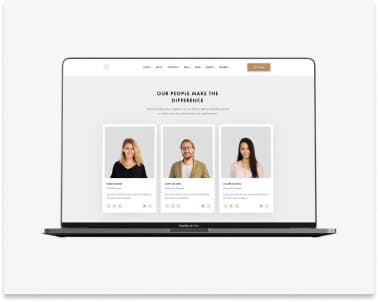
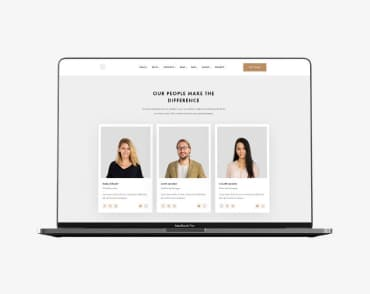
updated hw

diff --git a/portfolio.html b/portfolio.html
@@ -15,7 +15,7 @@
         <!--header-->
         <header class="page-header">
             <nav class="header-nav">
-                <a class="logo" href="./index.html">WebStudio</a>
+                <a class="logo link" href="./index.html"><span class="logo-web">Web</span><span class="logo-studio">Studio</span></a>
                 <ul class="menu list">
                     <li class="menu-item">
                         <a class="menu-link link" href="link">Студія</a>
@@ -37,7 +37,7 @@
         </header>
         <!--Main-->
         <main>
-            <section>
+            <section class="section">
                     <!--Filters-->
                     <ul class="menu list button">
                     <li class="menu-item"><button type="button" class="headup_hover">Усі</button></li>
@@ -48,22 +48,21 @@
                 </ul>
             <!--Projects-->
             <ul class="menu list">
-                <li class="menu-item"><img src="./images/project-1.jpg" alt="project1" width="370"><h1>Технокряк</h1><p>Веб-сайт</p></li>
-                <li class="menu-item"><img src="./images/project-2.jpg" alt="Project2" width="370"><h1>Постер New Orlean vs Golden Star</h1><p>Дизайн</p></li>
-                <li class="menu-item"><img src="./images/project-3.jpg" alt="Project3" width="370"><h1>Ресторан Seafood</h1><p>Додаток</p></li>
-                <li class="menu-item"><img src="./images/project-4.jpg" alt="Project4" width="370"><h1>Проєкт Prime</h1><p>Маркетинг</p></li>
-                <li class="menu-item"><img src="./images/project-5.jpg" alt="Project5" width="370"><h1>Проєкт Boxes</h1>Додаток<p></p></li>
-                <li class="menu-item"><img src="./images/project-6.jpg" alt="Project6" width="370"><h1>Inspiration has no Borders</h1><p>Веб-сайт</p></li>
-                <li class="menu-item"><img src="./images/project-7.jpg" alt="Project7" width="370"><h1>Видання Limited Edition</h1><p>Дизайн</p></li>
-                <li class="menu-item"><img src="./images/project-8.jpg" alt="Project8" width="370"><h1>Проєкт LAB</h1><p>Маркетинг</p></li>
-                <li class="menu-item"><img src="./images/project-9.jpg" alt="Project9" width="370"><h1>Growing Business</h1><p>Додаток</p></li>
+                <li class="menu-item"><img src="./images/project-1.jpg" alt="project1" width="370"><h2>Технокряк</h1><p>Веб-сайт</p></li>
+                <li class="menu-item"><img src="./images/project-2.jpg" alt="Project2" width="370"><h2>Постер New Orlean vs Golden Star</h1><p>Дизайн</p></li>
+                <li class="menu-item"><img src="./images/project-3.jpg" alt="Project3" width="370"><h2>Ресторан Seafood</h1><p>Додаток</p></li>
+                <li class="menu-item"><img src="./images/project-4.jpg" alt="Project4" width="370"><h2>Проєкт Prime</h1><p>Маркетинг</p></li>
+                <li class="menu-item"><img src="./images/project-5.jpg" alt="Project5" width="370"><h2>Проєкт Boxes</h1>Додаток<p></p></li>
+                <li class="menu-item"><img src="./images/project-6.jpg" alt="Project6" width="370"><h2>Inspiration has no Borders</h1><p>Веб-сайт</p></li>
+                <li class="menu-item"><img src="./images/project-7.jpg" alt="Project7" width="370"><h2>Проєкт LAB</h1><p>Маркетинг</p></li>
+                <li class="menu-item"><img src="./images/project-9.jpg" alt="Project9" width="370"><h2>Growing Business</h1><p>Додаток</p></li>
             </ul>
             </section>
         </main>
         <!--footer-->
-        <footer>
+        <footer class="page-footer">
             <!--адресса-->
-            <a href="./index.html">WebStudio</a>
+            <a class="link" href="./index.html"><span class="logo-web">Web</span><span class="logo-studio-footer">Studio</span></a>
             <address>
                 <ul class="menu list">
                     <li class="menu-item"><a class="contact-nav menu-link link"
@@ -72,7 +71,7 @@
                     <li class="menu-item"><a class="contact-mail menu-link link"
                             href="mailto:info@example.com">info@example.com</a></li>
                     <li class="menu-item"><a class="contact-number menu-link link" href="tel:+380991111111">+38 099 111 11
-                            11</a></li>
+                    11</a></li>
                 </ul>
             </address>
         </footer>

diff --git a/index.html b/index.html
@@ -15,7 +15,7 @@
     <!--header-->
     <header class="page-header">
         <nav class="header-nav">
-            <a class="logo" href="./index.html">WebStudio</a>
+            <a class="logo link" href="./index.html"><span class="logo-web">Web</span><span class="logo-studio">Studio</span></a>
         <ul class="menu list">
             <li class="menu-item">
                 <a class="menu-link link" href="link">Студія</a></li>
@@ -26,21 +26,21 @@
         </ul>
     </nav>
         <ul class="menu list">
-            <li class="menu-item"><a class="contact-mail menu-link link " href="mailto:info@devstudio.com">info@devstudio.com</a></li>
+            <li class="menu-item"><a class="contact-mail menu-link link" href="mailto:info@devstudio.com">info@devstudio.com</a></li>
             <li class="menu-item"><a class="contact-number menu-link link" href="tel+380961111111">+38 096 111 11 11</a></li>
         </ul>
     </header> 
     <!--main-->
     <main>
         <!--Замовити послугу-->
-        <section>
+        <section class="hero">
             <h1>
                 Ефективні рішення для вашого бізнесу
             </h1>
             <button class="modal-open-btn" type="button">Замовити послугу</button>
         </section>
     <!--Особливості-->
-    <section>
+    <section class="section">
         <ul class="menu list">
             <li class="menu-item">
                 <h2>УВАГА ДО ДЕТАЛЕЙ</h2>
@@ -61,7 +61,7 @@
         </ul>
     </section>
     <!--Чим ми займаймося-->
-    <section>
+    <section class="section">
         <h3>Чим ми займаймося</h3>
         <ul class="menu list">
             <li class="menu-item"> <img src="./images/box_1.png" alt="photo1" width="370"></li>
@@ -70,7 +70,7 @@
         </ul>
     </section>
     <!--Наша команда-->
-    <section>
+    <section class="section">
         <h3>Наша команда</h3>
         <ul class="menu list">
             <li class="menu-item"><img src="./images/img.jpg" alt="Ігор Дем'яненко" width="270">
@@ -94,15 +94,19 @@
     </section>
 </main>   
 <!--footer-->
-<footer>
+<footer class="page-footer">
     <!--адресса-->
-<a href="./index.html">WebStudio</a>
+<a class="link" href="./index.html"><span class="logo-web">Web</span><span class="logo-studio-footer">Studio</span></a>
 <address>
-    <ul class="menu list">
-        <li class="menu-item"><a class="contact-nav menu-link link" href="https://www.google.com/maps/dir//Lesi+Ukrainky+Blvd,+26,+Kyiv,+Ukraine,+02000/@50.4265947,30.5380962,19.89z/data=!4m9!4m8!1m0!1m5!1m1!1s0x40d4cf0e033ecbe9:0x57a4dffefec77da0!2m2!1d30.5383858!2d50.4265807!3e0">м. Київ, пр-т Лесі Українки, 26</a></li>
-        <li class="menu-item"><a class="contact-mail menu-link link " href="mailto:info@example.com">info@example.com</a></li>
+    <div class=""><ul class="menu list">
+        <li class="menu-item"><a class="contact-nav menu-link link"
+                href="https://www.google.com/maps/dir//Lesi+Ukrainky+Blvd,+26,+Kyiv,+Ukraine,+02000/@50.4265947,30.5380962,19.89z/data=!4m9!4m8!1m0!1m5!1m1!1s0x40d4cf0e033ecbe9:0x57a4dffefec77da0!2m2!1d30.5383858!2d50.4265807!3e0">м.
+                Київ, пр-т Лесі Українки, 26</a></li>
+        <li class="menu-item"><a class="contact-mail menu-link link" href="mailto:info@example.com">info@example.com</a>
+        </li>
         <li class="menu-item"><a class="contact-number menu-link link" href="tel:+380991111111">+38 099 111 11 11</a></li>
     </ul>
+</div>
 </address>
 </footer>
 </body>

diff --git a/styles/styles.css b/styles/styles.css
@@ -13,6 +13,26 @@
 .list {
     list-style: none;
 }
+.page-header {
+    background-color: #ffffff;
+}
+
+.logo-web {
+    font-family: 'Raleway';
+    
+    font-weight: 700;
+    font-size: 26px;
+    line-height: 1.19;
+color: #2196F3;
+}
+.logo-studio {
+    font-family: 'Raleway';
+    font-weight: 700;
+    font-size: 26px;
+    line-height: 1.19;
+    color: #212121;
+}
+
 img {
     display: block;
 }
@@ -29,10 +49,10 @@ button {
 body {
     font-family:'Roboto', sans-serif;
     letter-spacing: 0.03em;
-    color: var(--text-color-theme-light);
+    color: #ffffff;
 }
 
-h1, h2, h3  {
+ h2, h3, h4 {
     font-family: 'Roboto', sans-serif;
     color: #212121;
 }
@@ -50,7 +70,7 @@ color: #757575;
     font-size: 14px;
     line-height: 1.14;
     letter-spacing: 0.02em;
-    color: #757575;
+    color: #212121;
 }
 
 .menu-link:hover,
@@ -84,25 +104,58 @@ color: var(--accent-color--);
 color: var(--accent-color--);
 }
 /* main */
+.hero {
+    font-family: 'Roboto';
+    font-weight: 900;
+    font-size: 44px;
+    line-height: 1.36;
+    background-color: #2F303A;
+    color:  #ffffff;
+    text-transform: uppercase;
+}
+
 .modal-open-btn {
     font-family: 'Roboto';
-    font-style: normal;
-    font-weight: 500;
-    font-size: 14px;
-    line-height: 1.14;
+    font-weight: 700;
+    font-size: 16px;
+    line-height: 1.8;
     letter-spacing: 0.02em;
-    color: #757575;
+    color: #212121;
+    background-color: #F5F4FA;
 }
 
 .modal-open-btn:hover,
 .modal-open-btn:focus {
 cursor: pointer;
-color: var(--accent-color--);
+color: #ffffff;
+background-color: #2196F3;
 }
+
+.menu list {
+    font-family: 'Roboto';
+    font-style: normal;
+    font-weight: 700;
+    font-size: 14px;
+    line-height: 1.14;
+    letter-spacing: 0.03em;
+    text-transform: uppercase;
+    color: #212121;
+}
+.menu-item {
+    font-family: 'Roboto';
+    font-style: normal;
+    font-weight: 400;
+    font-size: 14px;
+    line-height: 1.7;
+    letter-spacing: 0.03em;
+    color: #757575;
+}
+
 /*footer*/
 /*розмір для адресси студії*/
 .contact-nav {
-    font-weight: 500;
+    font-family: 'Roboto';
+    font-weight: 400;
     font-size: 14px;
     line-height: 1.14;
     letter-spacing: 0.02em;
@@ -114,12 +167,31 @@ color: var(--accent-color--);
 .headup_hover {
     font-family: 'Roboto';
     font-size: 16px;
+    font-weight: 500;
     line-height: 1.62;
     letter-spacing: 0.02em;
-    color: #757575;
+    color: #212121;
+    background-color: #F5F4FA;;
 }
 .headup_hover:hover,
 .headup_hover:focus {
 cursor: pointer;
-color: var(--accent-color--);
+color: #ffffff;
+background-color: #2196F3;
+}
+.page-footer {
+background-color: #2F303A;
+}
+
+.section {
+    background-color: #ffffff;
+}
+
+.logo-studio-footer {
+    font-family: 'Raleway';
+    font-style: normal;
+    font-weight: 700;
+    font-size: 26px;
+    line-height: 1.19;
+    color: #ffffff;
 }
